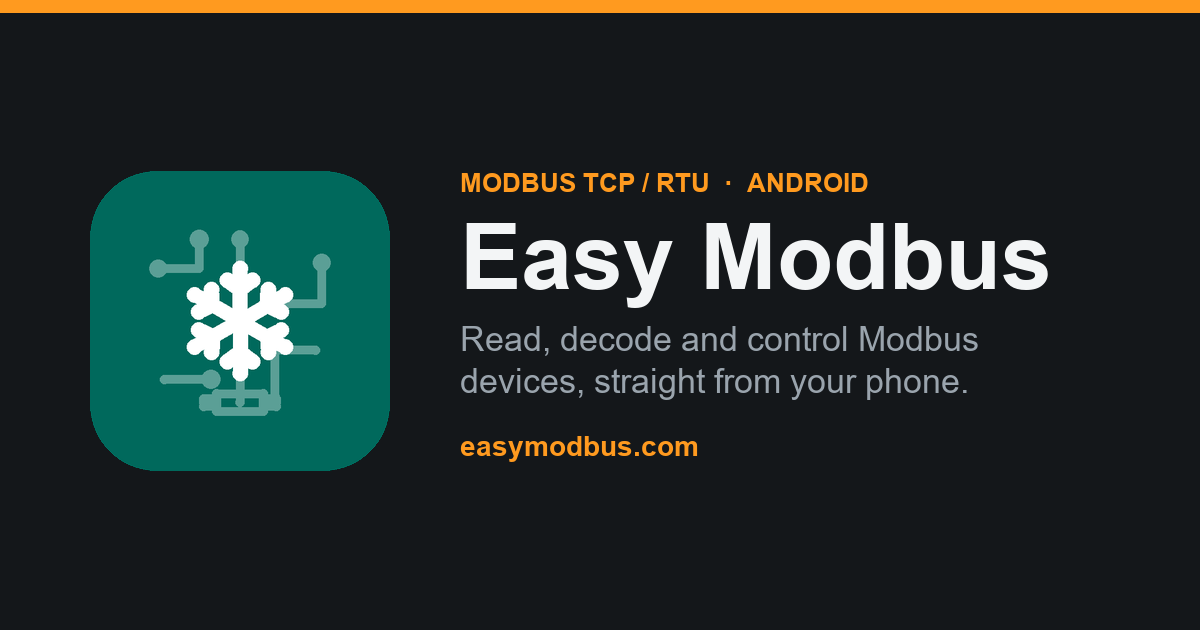
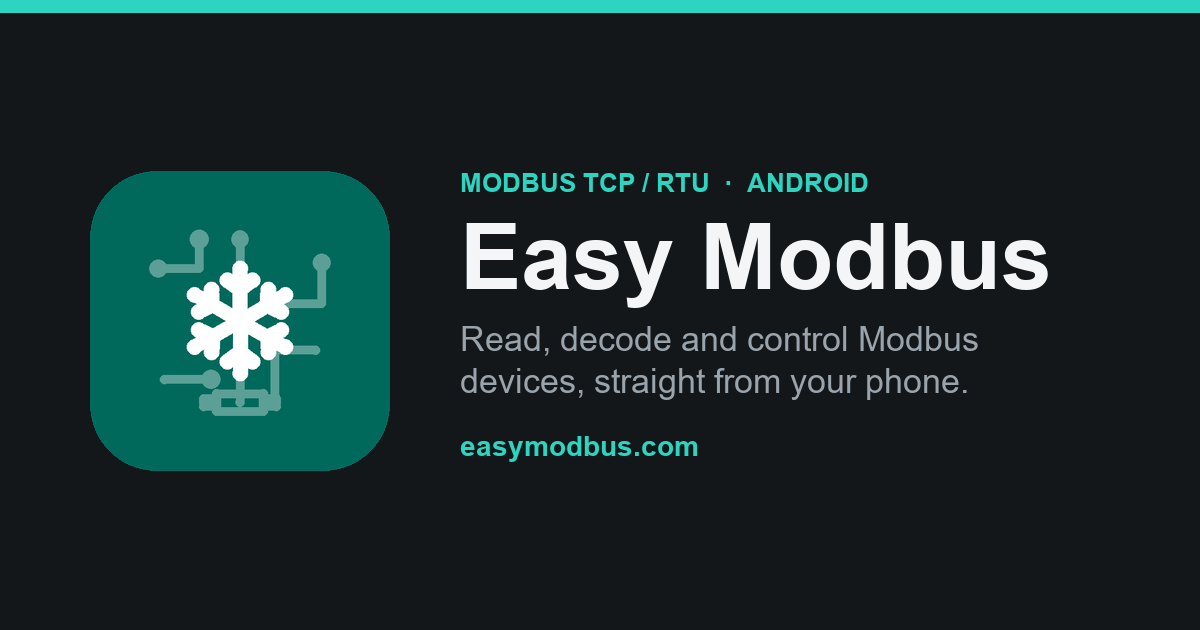
Differentiate EasyModbus with a teal accent (Field design unchanged)
Swap the site-wide accent from amber (#ff9a1f) to teal (#2dd4bf) across the
shared CSS (guides, privacy, PC privacy, terms), the homepage, and the 404,
and regenerate og-image in teal. Teal matches the Easy Modbus app icon, so the
site and store listing read as one brand and are clearly distinct from Easy
BACnet (which stays amber). Layout, typography and structure are identical.

Changed region(s): [[0.0, 0.0, 1.0, 0.0302], [0.37, 0.2714, 0.74, 0.3016], [0.37, 0.6937, 0.5858, 0.7238]]

diff --git a/guides/cannot-find-modbus-devices.html b/guides/cannot-find-modbus-devices.html
@@ -24,7 +24,7 @@
 <link href="https://fonts.googleapis.com/css2?family=Archivo:wght@600;800;900&family=Manrope:wght@400;500;600;700&family=IBM+Plex+Mono:wght@500;600&display=swap" rel="stylesheet">
 <style>
   :root { color-scheme: dark; --fg:#f3f5f6; --bg:#14171a; --muted:#9aa4ad;
-          --accent:#ff9a1f; --box:#1d2227; --line:#2f363d; --code:#101418; --ink:#0d0f11; }
+          --accent:#2dd4bf; --box:#1d2227; --line:#2f363d; --code:#101418; --ink:#0d0f11; }
   * { box-sizing: border-box; }
   body { max-width: 48rem; margin: 0 auto; padding: 2rem 1.25rem 5rem;
          font-family:"Manrope",system-ui,-apple-system,"Segoe UI",Roboto,Helvetica,Arial,sans-serif;

diff --git a/guides/how-to-build-a-modbus-remote.html b/guides/how-to-build-a-modbus-remote.html
@@ -24,7 +24,7 @@
 <link href="https://fonts.googleapis.com/css2?family=Archivo:wght@600;800;900&family=Manrope:wght@400;500;600;700&family=IBM+Plex+Mono:wght@500;600&display=swap" rel="stylesheet">
 <style>
   :root { color-scheme: dark; --fg:#f3f5f6; --bg:#14171a; --muted:#9aa4ad;
-          --accent:#ff9a1f; --box:#1d2227; --line:#2f363d; --code:#101418; --ink:#0d0f11; }
+          --accent:#2dd4bf; --box:#1d2227; --line:#2f363d; --code:#101418; --ink:#0d0f11; }
   * { box-sizing: border-box; }
   body { max-width: 48rem; margin: 0 auto; padding: 2rem 1.25rem 5rem;
          font-family:"Manrope",system-ui,-apple-system,"Segoe UI",Roboto,Helvetica,Arial,sans-serif;

diff --git a/guides/how-to-find-modbus-register-map.html b/guides/how-to-find-modbus-register-map.html
@@ -24,7 +24,7 @@
 <link href="https://fonts.googleapis.com/css2?family=Archivo:wght@600;800;900&family=Manrope:wght@400;500;600;700&family=IBM+Plex+Mono:wght@500;600&display=swap" rel="stylesheet">
 <style>
   :root { color-scheme: dark; --fg:#f3f5f6; --bg:#14171a; --muted:#9aa4ad;
-          --accent:#ff9a1f; --box:#1d2227; --line:#2f363d; --code:#101418; --ink:#0d0f11; }
+          --accent:#2dd4bf; --box:#1d2227; --line:#2f363d; --code:#101418; --ink:#0d0f11; }
   * { box-sizing: border-box; }
   body { max-width: 48rem; margin: 0 auto; padding: 2rem 1.25rem 5rem;
          font-family:"Manrope",system-ui,-apple-system,"Segoe UI",Roboto,Helvetica,Arial,sans-serif;

diff --git a/guides/how-to-use-easy-modbus.html b/guides/how-to-use-easy-modbus.html
@@ -24,7 +24,7 @@
 <link href="https://fonts.googleapis.com/css2?family=Archivo:wght@600;800;900&family=Manrope:wght@400;500;600;700&family=IBM+Plex+Mono:wght@500;600&display=swap" rel="stylesheet">
 <style>
   :root { color-scheme: dark; --fg:#f3f5f6; --bg:#14171a; --muted:#9aa4ad;
-          --accent:#ff9a1f; --box:#1d2227; --line:#2f363d; --code:#101418; --ink:#0d0f11; }
+          --accent:#2dd4bf; --box:#1d2227; --line:#2f363d; --code:#101418; --ink:#0d0f11; }
   * { box-sizing: border-box; }
   body { max-width: 48rem; margin: 0 auto; padding: 2rem 1.25rem 5rem;
          font-family:"Manrope",system-ui,-apple-system,"Segoe UI",Roboto,Helvetica,Arial,sans-serif;

diff --git a/guides/how-to-write-to-a-modbus-register.html b/guides/how-to-write-to-a-modbus-register.html
@@ -24,7 +24,7 @@
 <link href="https://fonts.googleapis.com/css2?family=Archivo:wght@600;800;900&family=Manrope:wght@400;500;600;700&family=IBM+Plex+Mono:wght@500;600&display=swap" rel="stylesheet">
 <style>
   :root { color-scheme: dark; --fg:#f3f5f6; --bg:#14171a; --muted:#9aa4ad;
-          --accent:#ff9a1f; --box:#1d2227; --line:#2f363d; --code:#101418; --ink:#0d0f11; }
+          --accent:#2dd4bf; --box:#1d2227; --line:#2f363d; --code:#101418; --ink:#0d0f11; }
   * { box-sizing: border-box; }
   body { max-width: 48rem; margin: 0 auto; padding: 2rem 1.25rem 5rem;
          font-family:"Manrope",system-ui,-apple-system,"Segoe UI",Roboto,Helvetica,Arial,sans-serif;

diff --git a/guides/is-it-safe-to-write-to-modbus.html b/guides/is-it-safe-to-write-to-modbus.html
@@ -24,7 +24,7 @@
 <link href="https://fonts.googleapis.com/css2?family=Archivo:wght@600;800;900&family=Manrope:wght@400;500;600;700&family=IBM+Plex+Mono:wght@500;600&display=swap" rel="stylesheet">
 <style>
   :root { color-scheme: dark; --fg:#f3f5f6; --bg:#14171a; --muted:#9aa4ad;
-          --accent:#ff9a1f; --box:#1d2227; --line:#2f363d; --code:#101418; --ink:#0d0f11; }
+          --accent:#2dd4bf; --box:#1d2227; --line:#2f363d; --code:#101418; --ink:#0d0f11; }
   * { box-sizing: border-box; }
   body { max-width: 48rem; margin: 0 auto; padding: 2rem 1.25rem 5rem;
          font-family:"Manrope",system-ui,-apple-system,"Segoe UI",Roboto,Helvetica,Arial,sans-serif;

diff --git a/guides/modbus-address-off-by-one.html b/guides/modbus-address-off-by-one.html
@@ -24,7 +24,7 @@
 <link href="https://fonts.googleapis.com/css2?family=Archivo:wght@600;800;900&family=Manrope:wght@400;500;600;700&family=IBM+Plex+Mono:wght@500;600&display=swap" rel="stylesheet">
 <style>
   :root { color-scheme: dark; --fg:#f3f5f6; --bg:#14171a; --muted:#9aa4ad;
-          --accent:#ff9a1f; --box:#1d2227; --line:#2f363d; --code:#101418; --ink:#0d0f11; }
+          --accent:#2dd4bf; --box:#1d2227; --line:#2f363d; --code:#101418; --ink:#0d0f11; }
   * { box-sizing: border-box; }
   body { max-width: 48rem; margin: 0 auto; padding: 2rem 1.25rem 5rem;
          font-family:"Manrope",system-ui,-apple-system,"Segoe UI",Roboto,Helvetica,Arial,sans-serif;

diff --git a/guides/modbus-function-codes-explained.html b/guides/modbus-function-codes-explained.html
@@ -24,7 +24,7 @@
 <link href="https://fonts.googleapis.com/css2?family=Archivo:wght@600;800;900&family=Manrope:wght@400;500;600;700&family=IBM+Plex+Mono:wght@500;600&display=swap" rel="stylesheet">
 <style>
   :root { color-scheme: dark; --fg:#f3f5f6; --bg:#14171a; --muted:#9aa4ad;
-          --accent:#ff9a1f; --box:#1d2227; --line:#2f363d; --code:#101418; --ink:#0d0f11; }
+          --accent:#2dd4bf; --box:#1d2227; --line:#2f363d; --code:#101418; --ink:#0d0f11; }
   * { box-sizing: border-box; }
   body { max-width: 48rem; margin: 0 auto; padding: 2rem 1.25rem 5rem;
          font-family:"Manrope",system-ui,-apple-system,"Segoe UI",Roboto,Helvetica,Arial,sans-serif;

diff --git a/guides/modbus-reading-slow-or-unreliable.html b/guides/modbus-reading-slow-or-unreliable.html
@@ -24,7 +24,7 @@
 <link href="https://fonts.googleapis.com/css2?family=Archivo:wght@600;800;900&family=Manrope:wght@400;500;600;700&family=IBM+Plex+Mono:wght@500;600&display=swap" rel="stylesheet">
 <style>
   :root { color-scheme: dark; --fg:#f3f5f6; --bg:#14171a; --muted:#9aa4ad;
-          --accent:#ff9a1f; --box:#1d2227; --line:#2f363d; --code:#101418; --ink:#0d0f11; }
+          --accent:#2dd4bf; --box:#1d2227; --line:#2f363d; --code:#101418; --ink:#0d0f11; }
   * { box-sizing: border-box; }
   body { max-width: 48rem; margin: 0 auto; padding: 2rem 1.25rem 5rem;
          font-family:"Manrope",system-ui,-apple-system,"Segoe UI",Roboto,Helvetica,Arial,sans-serif;

diff --git a/guides/modbus-tcp-vs-rtu-vs-rs485.html b/guides/modbus-tcp-vs-rtu-vs-rs485.html
@@ -24,7 +24,7 @@
 <link href="https://fonts.googleapis.com/css2?family=Archivo:wght@600;800;900&family=Manrope:wght@400;500;600;700&family=IBM+Plex+Mono:wght@500;600&display=swap" rel="stylesheet">
 <style>
   :root { color-scheme: dark; --fg:#f3f5f6; --bg:#14171a; --muted:#9aa4ad;
-          --accent:#ff9a1f; --box:#1d2227; --line:#2f363d; --code:#101418; --ink:#0d0f11; }
+          --accent:#2dd4bf; --box:#1d2227; --line:#2f363d; --code:#101418; --ink:#0d0f11; }
   * { box-sizing: border-box; }
   body { max-width: 48rem; margin: 0 auto; padding: 2rem 1.25rem 5rem;
          font-family:"Manrope",system-ui,-apple-system,"Segoe UI",Roboto,Helvetica,Arial,sans-serif;

diff --git a/guides/modbus-unit-id-slave-id.html b/guides/modbus-unit-id-slave-id.html
@@ -24,7 +24,7 @@
 <link href="https://fonts.googleapis.com/css2?family=Archivo:wght@600;800;900&family=Manrope:wght@400;500;600;700&family=IBM+Plex+Mono:wght@500;600&display=swap" rel="stylesheet">
 <style>
   :root { color-scheme: dark; --fg:#f3f5f6; --bg:#14171a; --muted:#9aa4ad;
-          --accent:#ff9a1f; --box:#1d2227; --line:#2f363d; --code:#101418; --ink:#0d0f11; }
+          --accent:#2dd4bf; --box:#1d2227; --line:#2f363d; --code:#101418; --ink:#0d0f11; }
   * { box-sizing: border-box; }
   body { max-width: 48rem; margin: 0 auto; padding: 2rem 1.25rem 5rem;
          font-family:"Manrope",system-ui,-apple-system,"Segoe UI",Roboto,Helvetica,Arial,sans-serif;

diff --git a/guides/modbus-value-wrong-scaling-byte-order.html b/guides/modbus-value-wrong-scaling-byte-order.html
@@ -24,7 +24,7 @@
 <link href="https://fonts.googleapis.com/css2?family=Archivo:wght@600;800;900&family=Manrope:wght@400;500;600;700&family=IBM+Plex+Mono:wght@500;600&display=swap" rel="stylesheet">
 <style>
   :root { color-scheme: dark; --fg:#f3f5f6; --bg:#14171a; --muted:#9aa4ad;
-          --accent:#ff9a1f; --box:#1d2227; --line:#2f363d; --code:#101418; --ink:#0d0f11; }
+          --accent:#2dd4bf; --box:#1d2227; --line:#2f363d; --code:#101418; --ink:#0d0f11; }
   * { box-sizing: border-box; }
   body { max-width: 48rem; margin: 0 auto; padding: 2rem 1.25rem 5rem;
          font-family:"Manrope",system-ui,-apple-system,"Segoe UI",Roboto,Helvetica,Arial,sans-serif;
